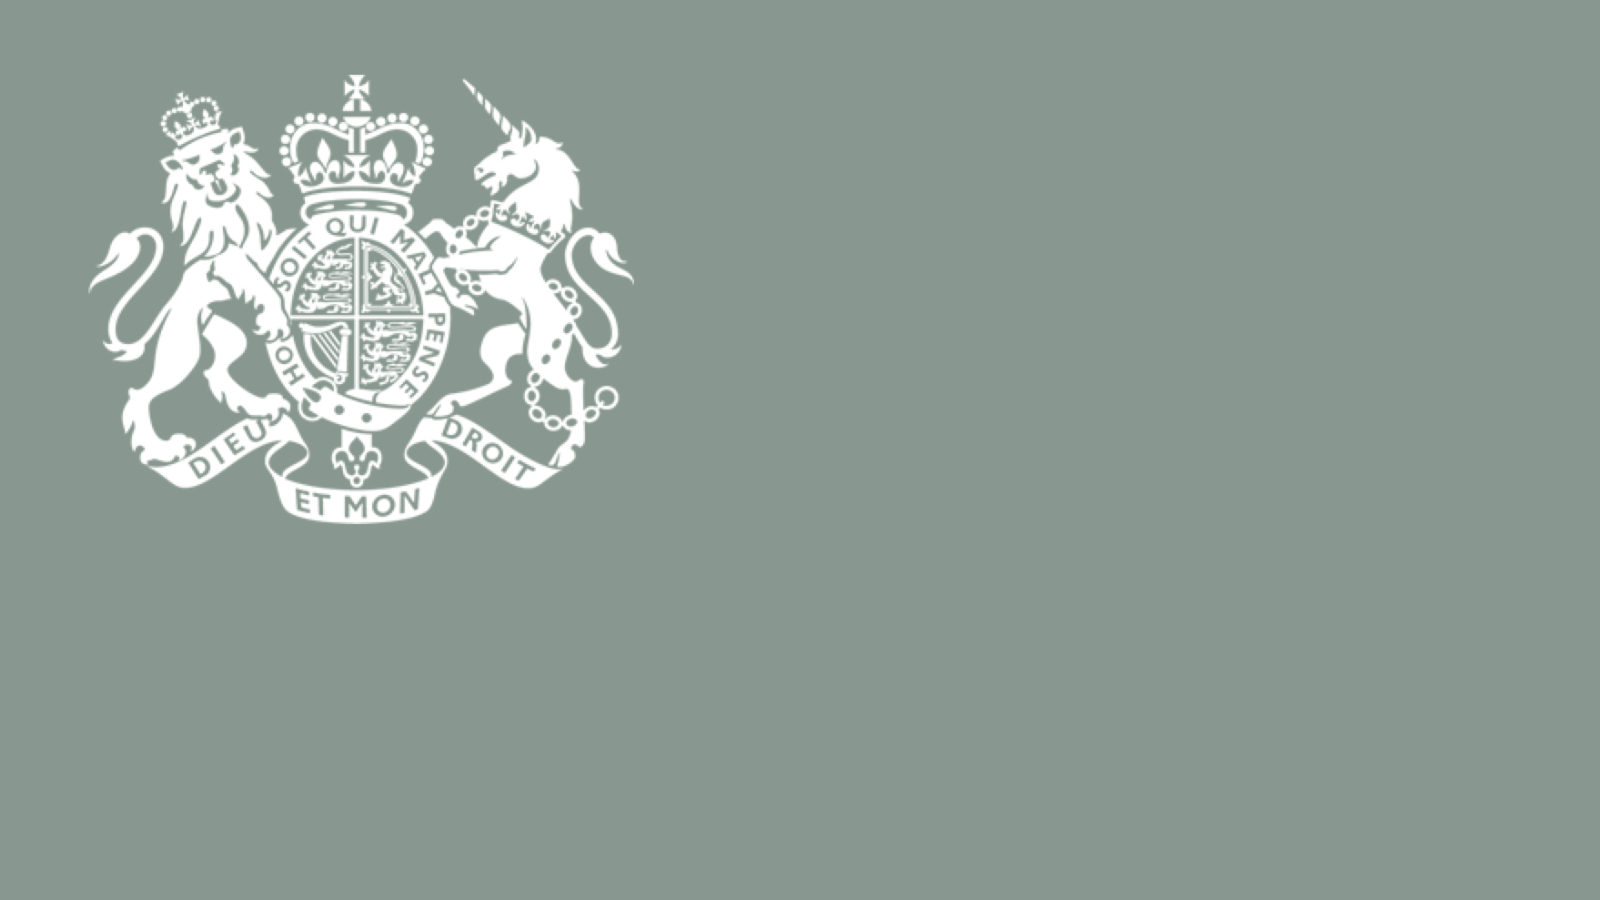
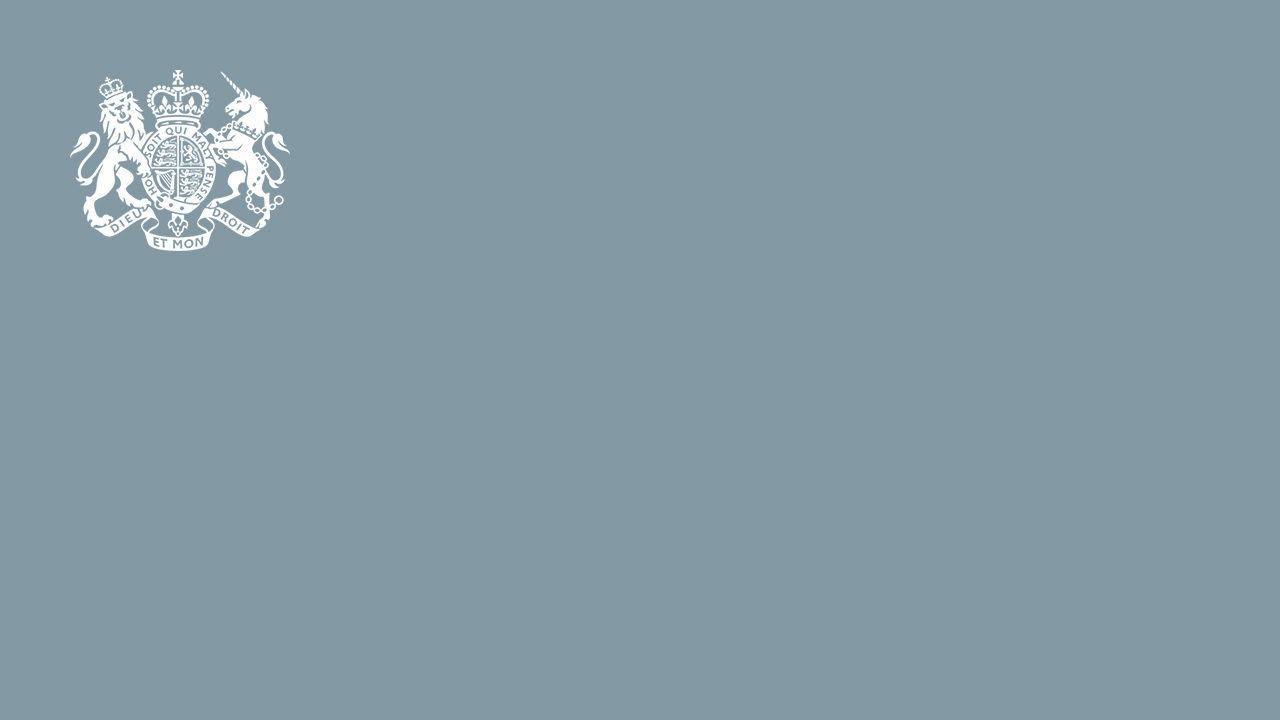
chore: Change SCTS and HMCTS background images to neutral colours

Changed region(s): [[0.0625, 0.0917, 0.4062, 0.5806], [0.2812, 0.0917, 0.3125, 0.1222]]

diff --git a/VideoWeb/VideoWeb/ClientApp/src/app/shared/video-filter/video-filter.component.html b/VideoWeb/VideoWeb/ClientApp/src/app/shared/video-filter/video-filter.component.html
@@ -55,7 +55,7 @@
         tabindex="-1"
       />
       <label for="bg-hmcts" tabindex="0" (keypress)="updateFilter(filtersAvailable.HMCTS)">
-        <img src="/assets/images/VhBgFilterHMCTS.jpg" class="bg-option-img" [attr.alt]="'video-filter.hmcts-alt' | translate" />
+        <img src="/assets/images/VhBgFilterHMCTS-thumb.jpg" class="bg-option-img" [attr.alt]="'video-filter.hmcts-alt' | translate" />
       </label>
     </div>
     <div class="bg-name3">
@@ -73,7 +73,7 @@
         tabindex="-1"
       />
       <label for="bg-scot" tabindex="0" (keypress)="updateFilter(filtersAvailable.SCTS)">
-        <img src="/assets/images/VhBgFilterSCTS.jpg" class="bg-option-img" [attr.alt]="'video-filter.scts-alt' | translate" />
+        <img src="/assets/images/VhBgFilterSCTS-thumb.jpg" class="bg-option-img" [attr.alt]="'video-filter.scts-alt' | translate" />
       </label>
     </div>
     <div class="bg-name4">
